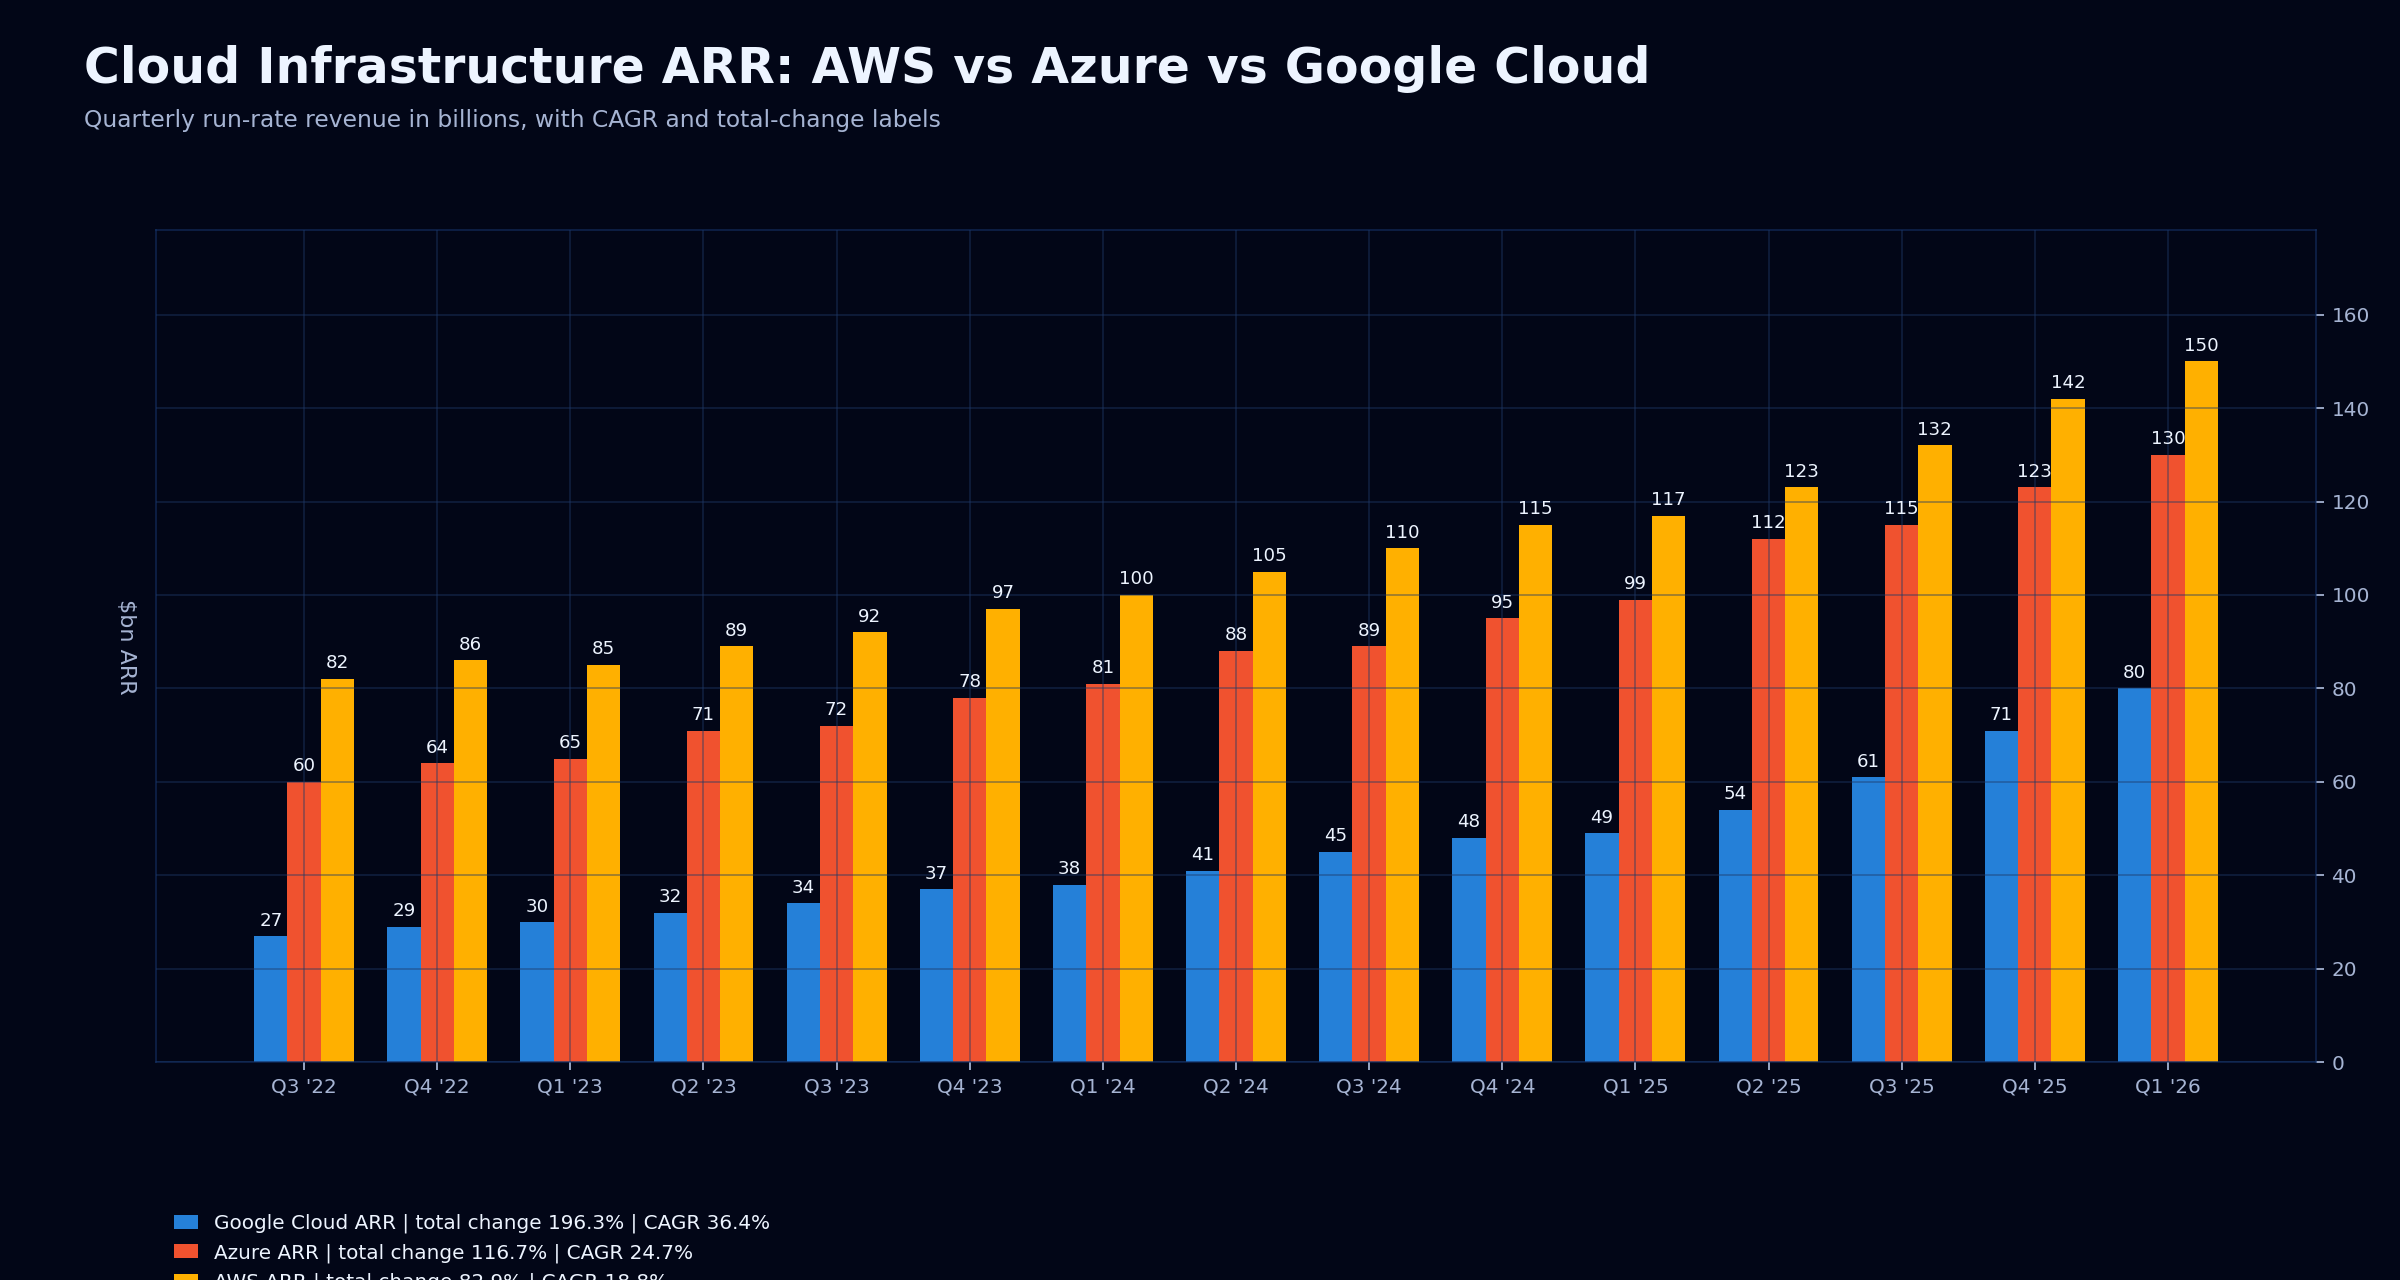
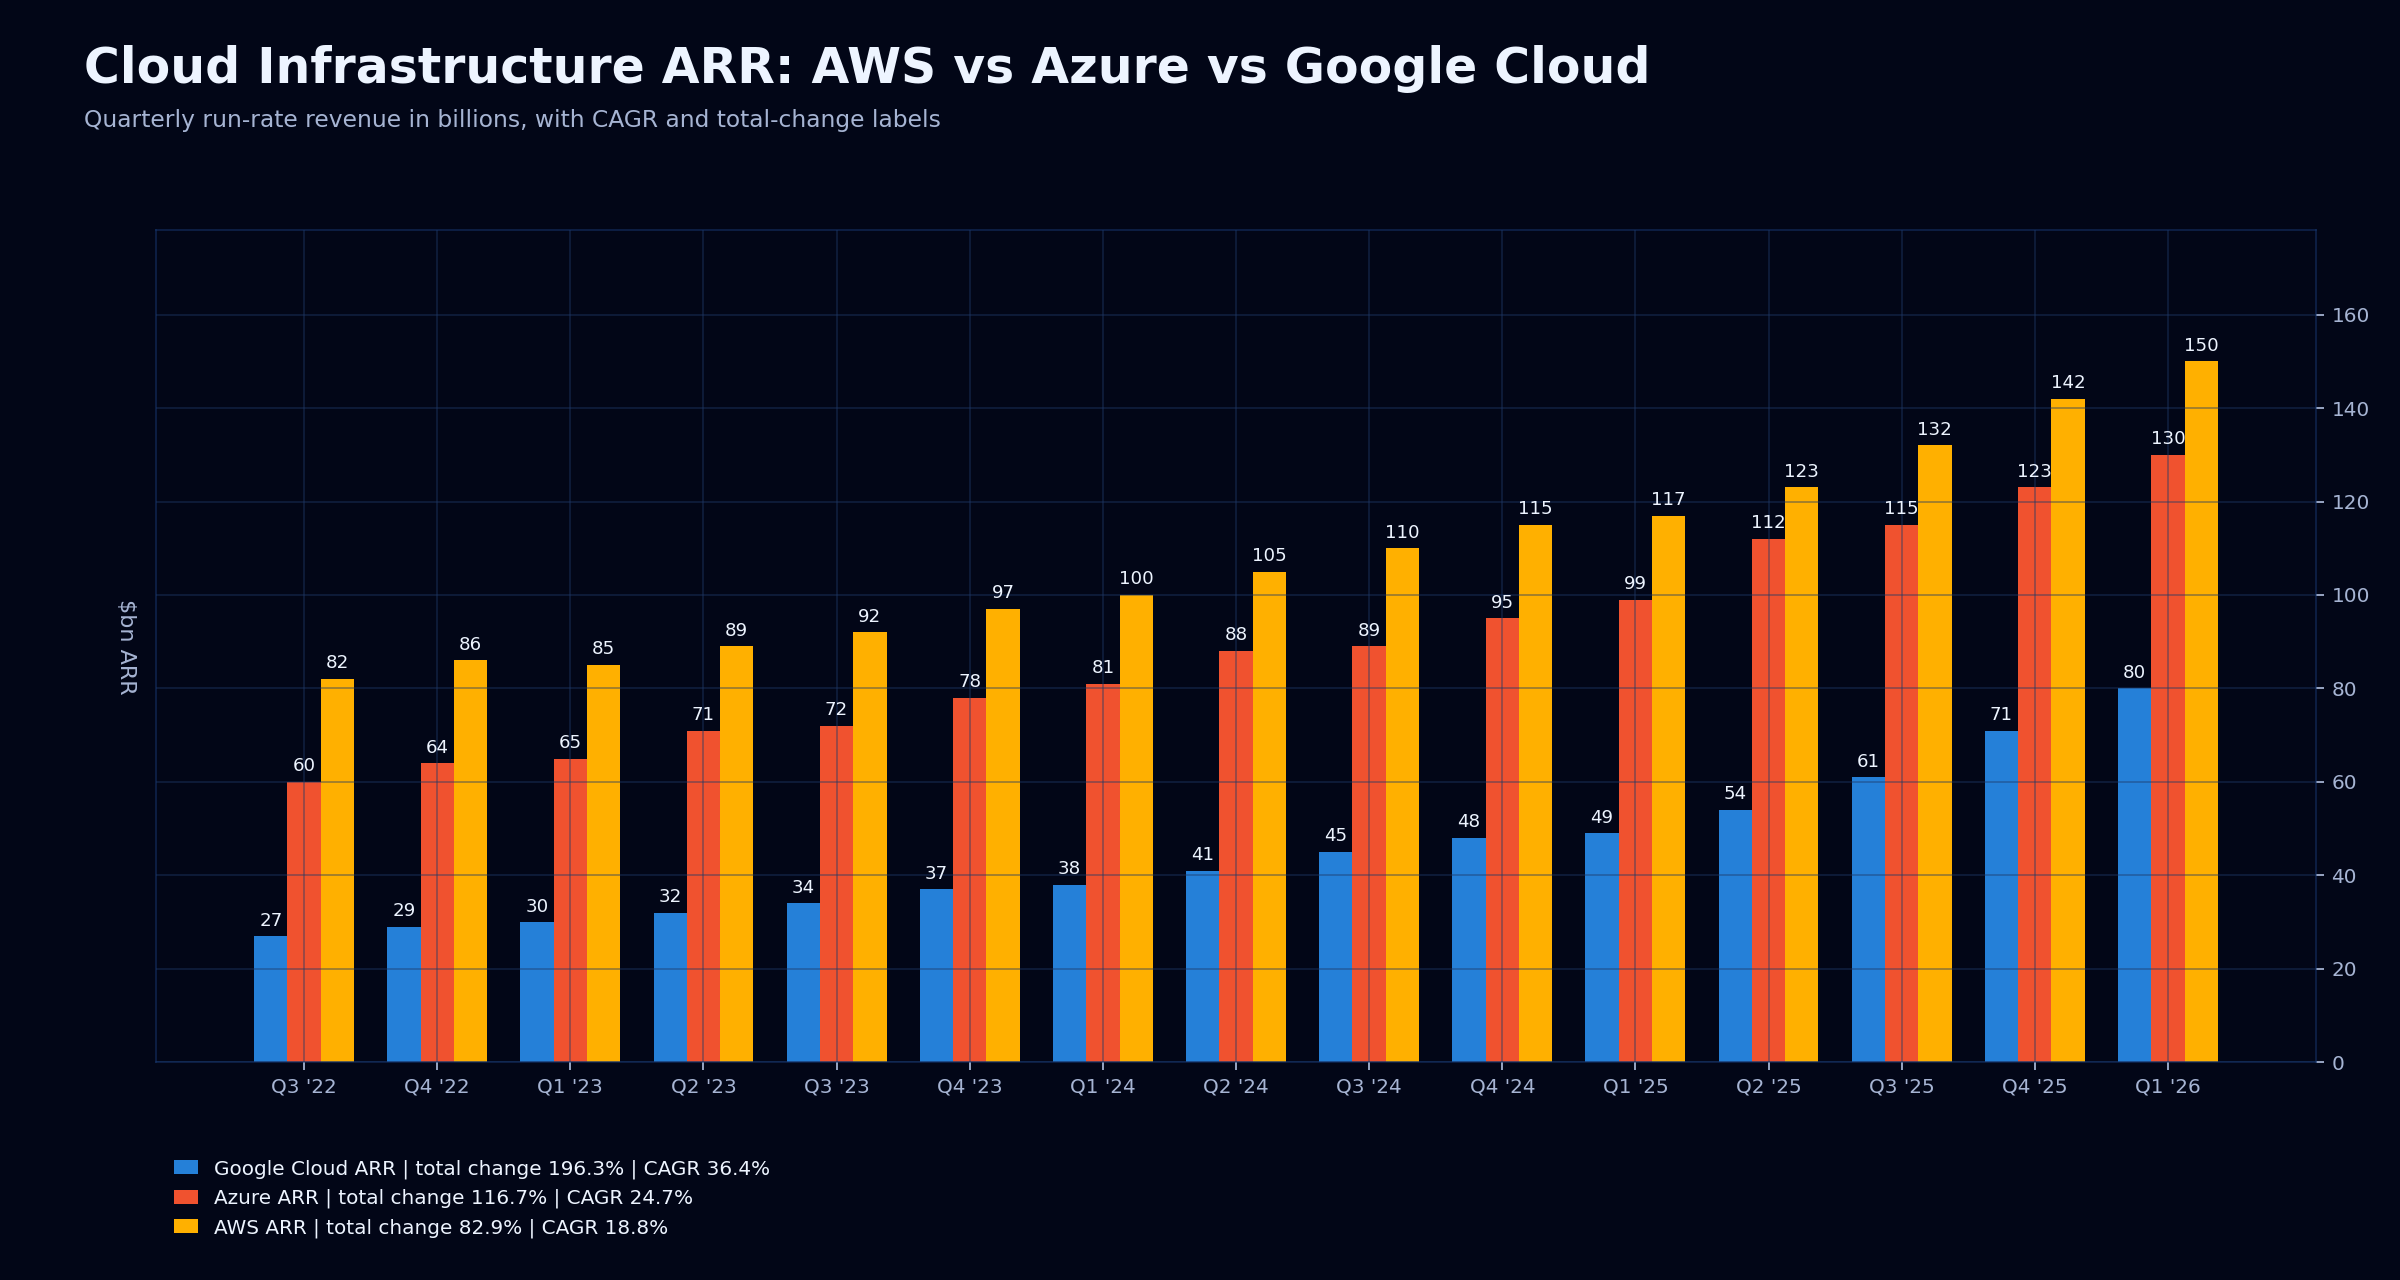
Tighten v3 cloud ARR legend spacing

Changed region(s): [[0.0625, 0.9062, 0.3125, 1.0]]

diff --git a/scripts/generate_v3_showcase_outputs.py b/scripts/generate_v3_showcase_outputs.py
@@ -134,10 +134,10 @@ def surface_layout(fig: plt.Figure) -> tuple[plt.Axes, plt.Axes]:
     return ax, cax
 
 
-def legend_below(ax: plt.Axes, columns: int = 1) -> None:
+def legend_below(ax: plt.Axes, columns: int = 1, y: float = -0.16) -> None:
     legend = ax.legend(
         loc="upper left",
-        bbox_to_anchor=(0, -0.16),
+        bbox_to_anchor=(0, y),
         ncol=columns,
         frameon=False,
         labelcolor=TEXT,
@@ -202,7 +202,7 @@ def plot_cloud_arr(out: Path) -> None:
     ax.set_ylim(0, 178)
     ax.yaxis.tick_right()
     ax.set_ylabel("$bn ARR", rotation=270, labelpad=18)
-    legend_below(ax, 1)
+    legend_below(ax, 1, y=-0.095)
     save(fig, out)
 
 
